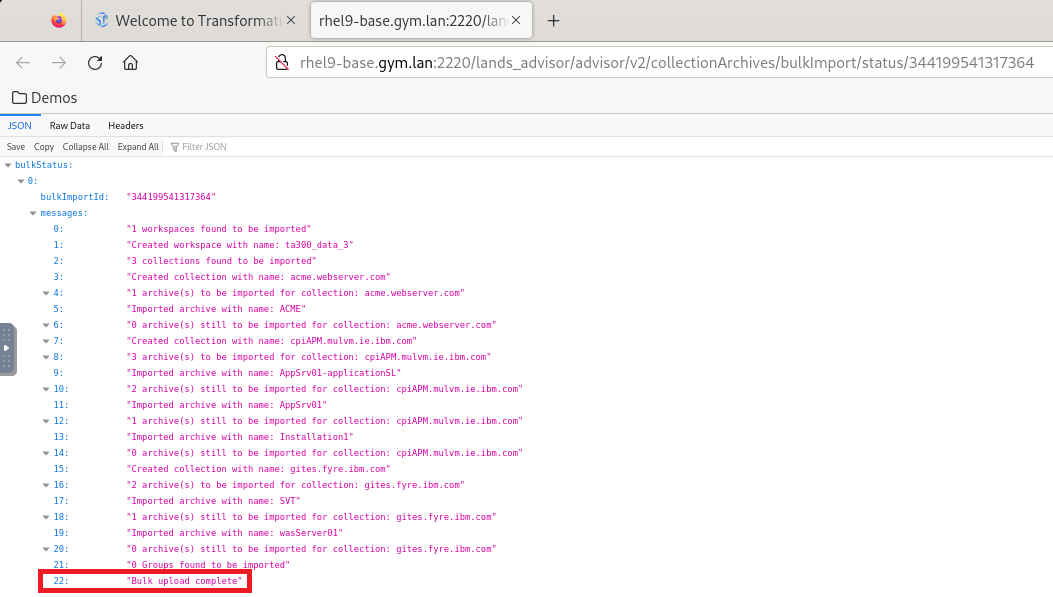
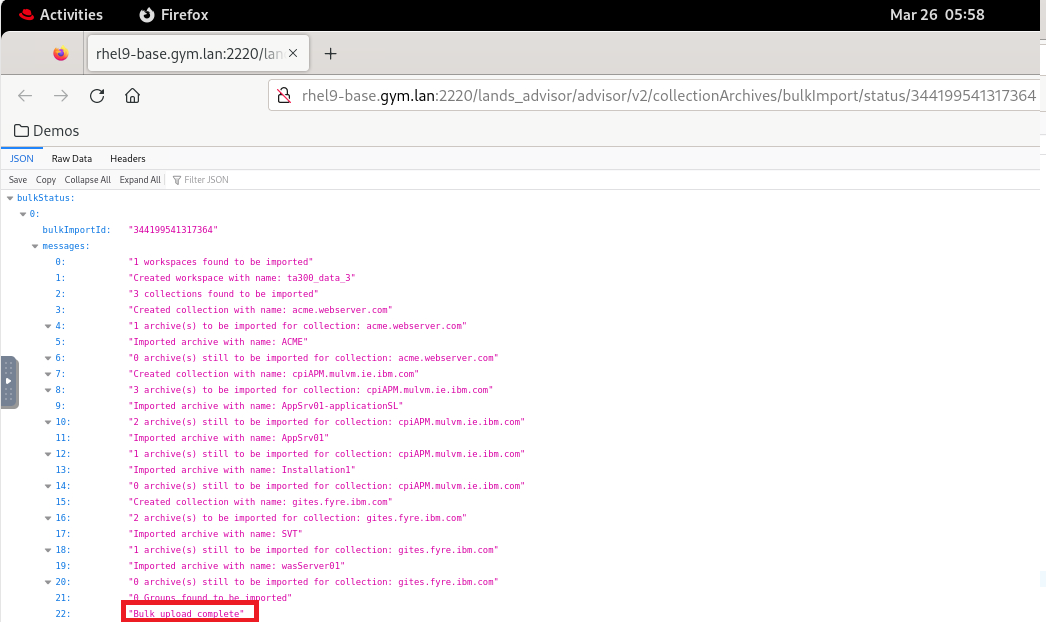
Updated

Changed region(s): [[0.0, 0.1508, 0.4895, 1.0], [0.0, 0.0, 1.0, 0.1809], [0.1224, 0.1508, 0.153, 0.1809]]

diff --git a/README.md b/README.md
@@ -292,7 +292,11 @@ Once the bulk data upload processing is complete, it creates a **workspace** in 
 
 1.  Open the new workspace in the TA console
 
-    a.  If the web browser window is not open, launch it by clicking the web browser icon in the desktop.
+    a.  Use the **Activities** Icon to switch to the toolbar, then click the **Firefox** icon to open a browser window.
+    <!-- LBH: Updated description how to access toolbar -->
+    ![](./images/media/Toolbar_firefox_new.png)
+
+    
 
     ![Graphical user interface Description automatically generated](./images/media/image12.png)
 
